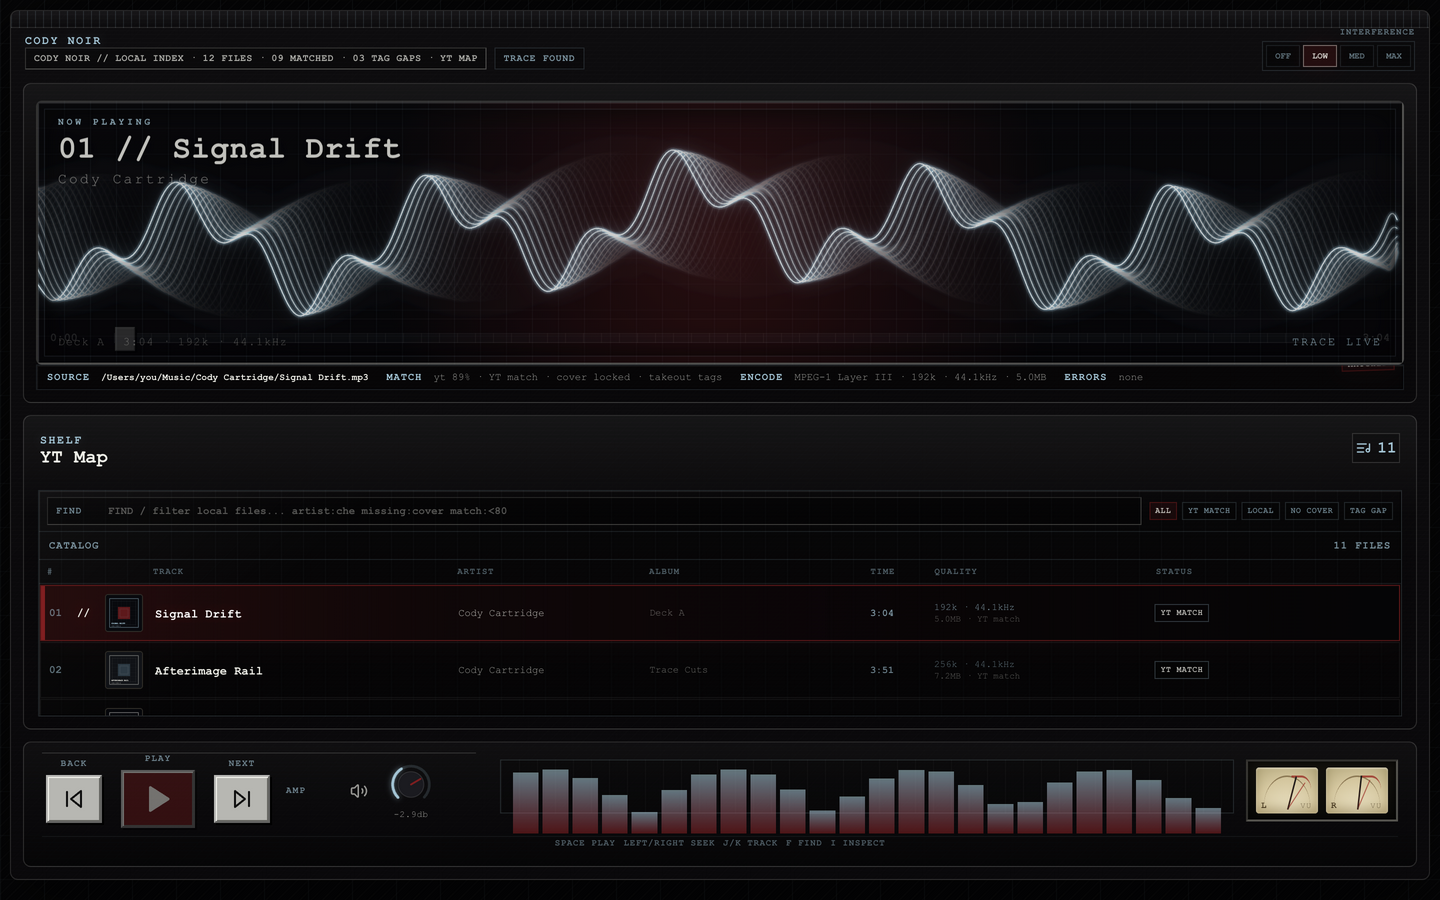
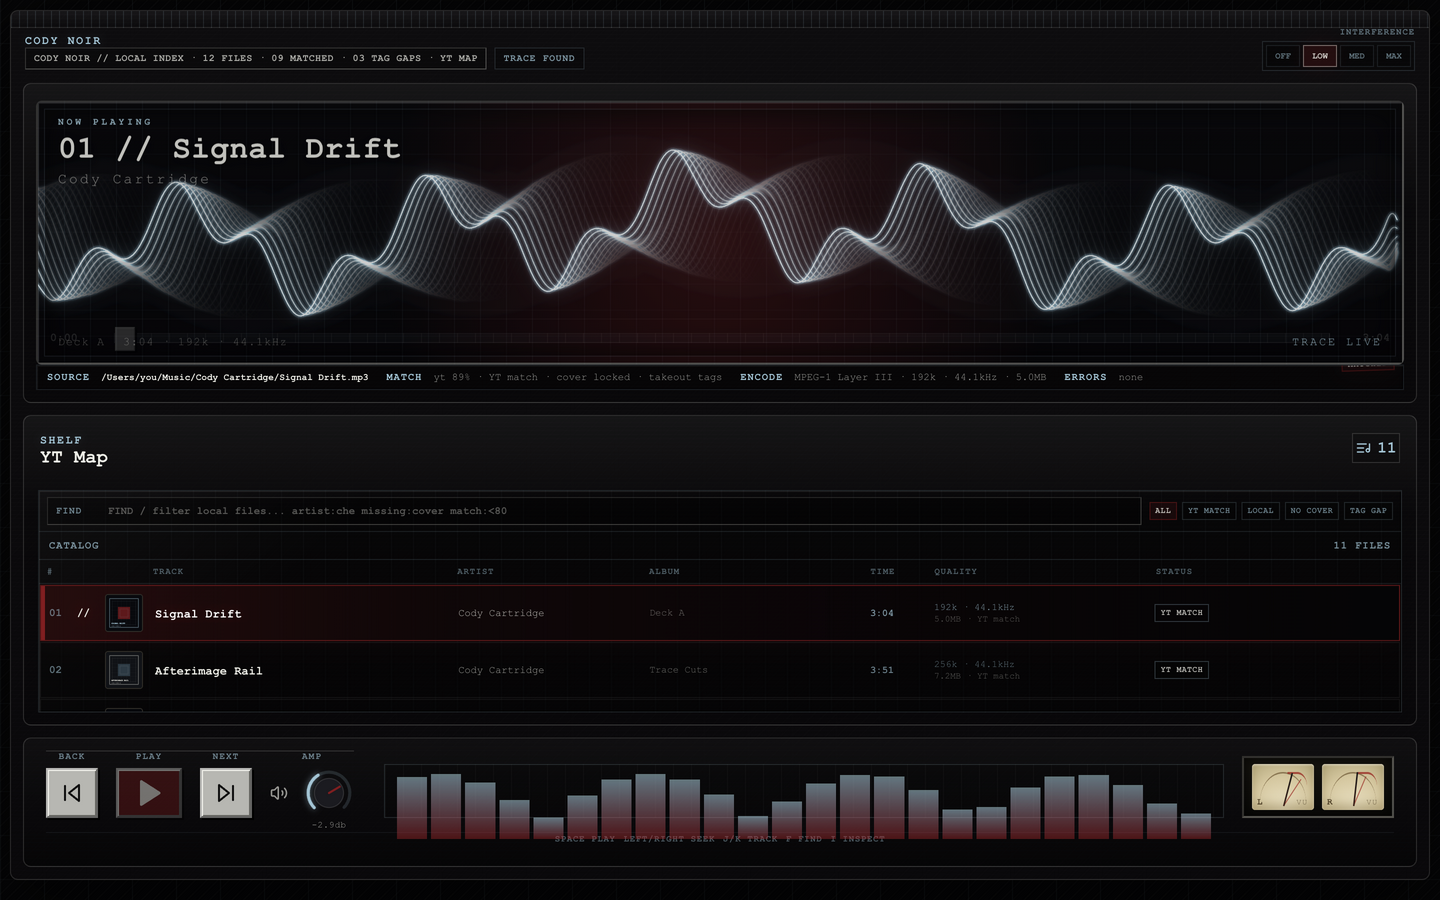
Fix bottom control-strip alignment
The transport pads bottom-aligned controls of different heights and the AMP
knob's dB readout dropped the knob below the button line, so BACK/PLAY/NEXT,
the amp knob, and the spectrum/VU meters all sat on different levels.

Rework the strip as a single "control shelf": flex row with align-items
flex-end so every control shares one bottom line; equal 50px button/knob
heights so the labels align above; the dB readout is now absolutely
positioned so it no longer offsets the knob. Verified all six controls
share an identical baseline (0px spread).

Verify: build clean; smoke:store 4/4; smoke:a11y 9/9; screenshots 56/0.

Changed region(s): [[0.0312, 0.8089, 0.9688, 0.9644], [0.0625, 0.7778, 0.0938, 0.8089]]

diff --git a/src/styles.css b/src/styles.css
@@ -7649,12 +7649,11 @@ button:disabled {
 
 /* --- Bottom control strip --- */
 .deck-controls {
-  display: grid;
-  grid-template-columns: auto minmax(0, 1fr);
-  grid-template-rows: auto auto;
-  align-items: center;
-  gap: 8px 24px;
-  padding: 10px 18px;
+  display: flex;
+  flex-wrap: wrap;
+  align-items: flex-end;
+  gap: 14px 30px;
+  padding: 12px 22px 14px;
   border: 1px solid var(--line);
   border-radius: 8px;
   background:
@@ -7662,23 +7661,65 @@ button:disabled {
     rgba(0, 0, 0, 0.18);
 }
 
+/* Control shelf: every control (buttons + knob + meters) sits on one bottom
+   line; labels stack above. */
 .deck-controls .transport {
-  grid-row: 1;
-  grid-column: 1;
+  display: flex;
+  align-items: flex-end;
+  gap: 18px;
   min-height: 0;
   padding: 0;
   background: none;
 }
 
+.deck-controls .transport-pad,
+.deck-controls .volume-control {
+  display: flex;
+  flex-direction: column;
+  align-items: center;
+  gap: 6px;
+}
+
+.deck-controls .icon-button {
+  width: 52px;
+  height: 50px;
+}
+
+.deck-controls .play-button {
+  width: 66px;
+  height: 50px;
+}
+
+.deck-controls .amp-knob {
+  width: 50px;
+}
+
+.deck-controls .amp-knob-face {
+  width: 50px;
+  height: 50px;
+}
+
+.deck-controls .amp-knob-db {
+  position: absolute;
+  top: 100%;
+  left: 50%;
+  margin-top: 2px;
+  transform: translateX(-50%);
+  white-space: nowrap;
+  pointer-events: none;
+}
+
 .deck-controls .meter-bank {
-  grid-row: 1;
-  grid-column: 2;
+  flex: 1 1 340px;
+  display: grid;
+  grid-template-columns: minmax(0, 1fr) auto;
+  align-items: end;
+  gap: 18px;
   margin: 0;
 }
 
 .deck-controls .key-hints {
-  grid-row: 2;
-  grid-column: 1 / -1;
+  flex-basis: 100%;
   justify-content: center;
   margin: 0;
 }
